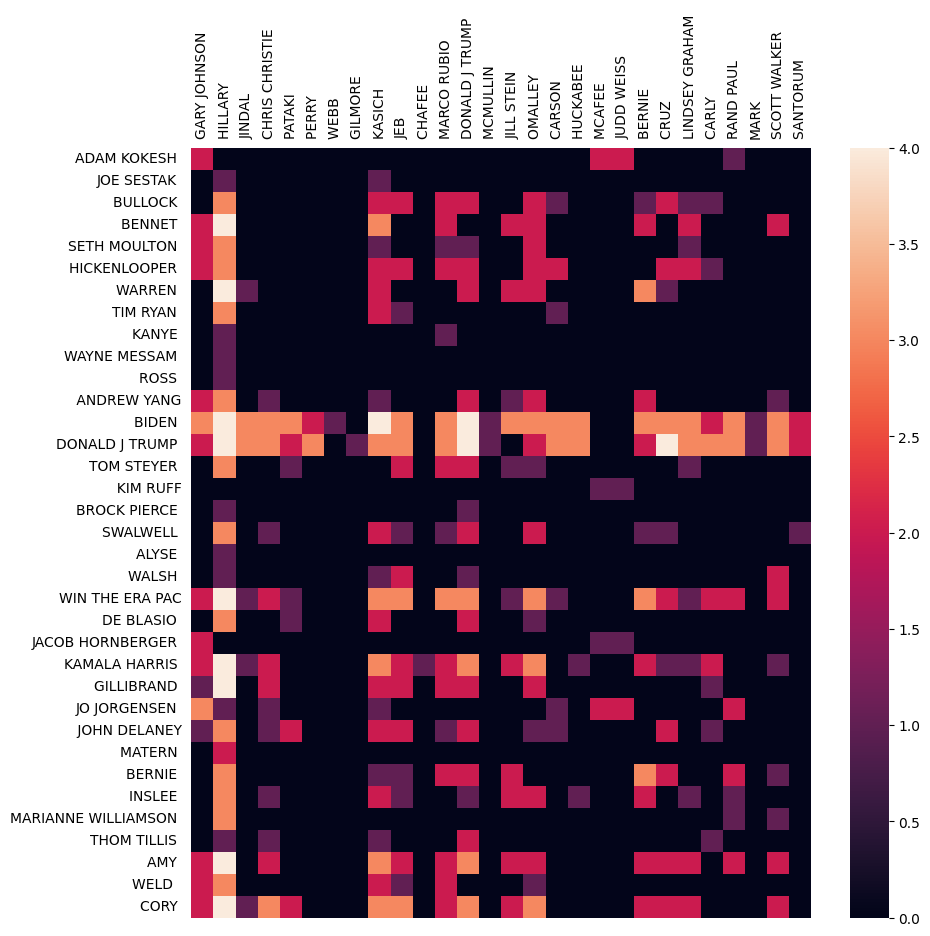
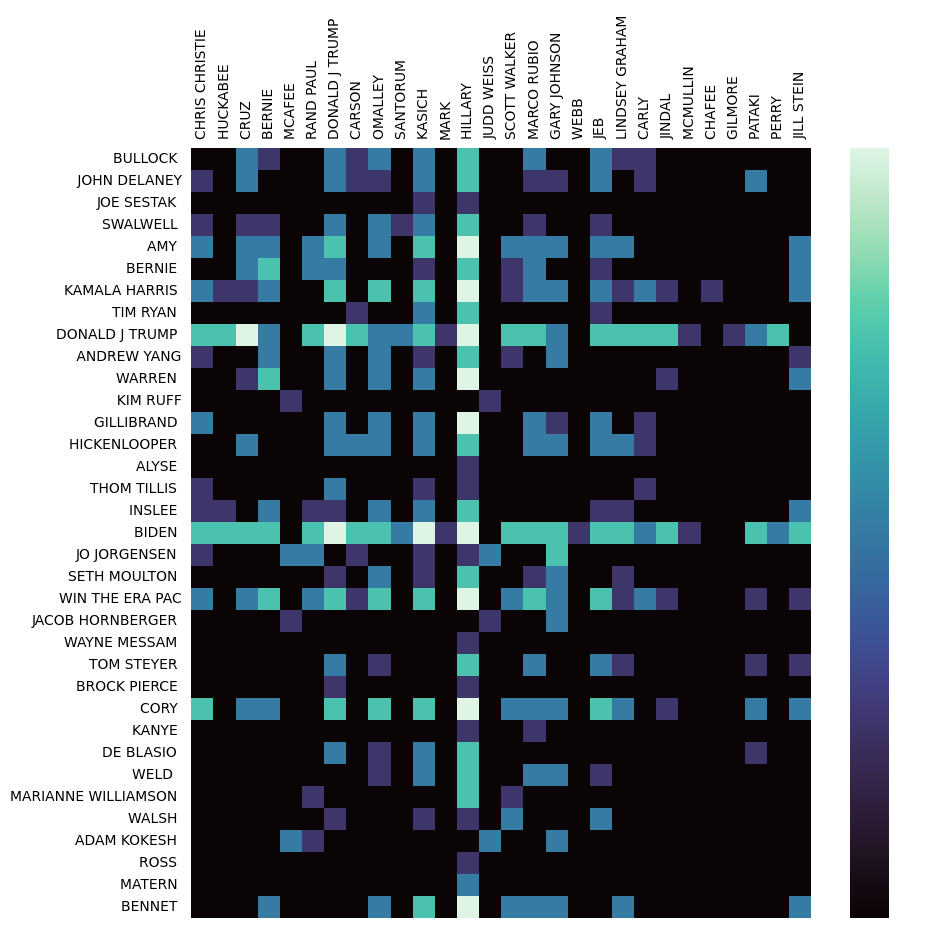
update writeup

diff --git a/index.html b/index.html
@@ -7,7 +7,7 @@
 <head>
 	<meta http-equiv="Content-Type" content="text/html; charset=utf-8"/>
 
-	<title>snek.html</title>
+	<title>Data for Data</title>
 	
 	<style type="text/css" media="screen">
 	
@@ -20,8 +20,8 @@
 		
 		
 		pre code {
-			background-color: #008000;
-			color: #000;
+			background-color: #00bfb2;
+			color: #000000;
 			
 			display: block;
 			padding: 20px;
@@ -38,7 +38,7 @@
 	
 </head>
 
-<body bgcolor="black" text="green">
+<body bgcolor="000000" text="00bfb2">
 
 <style>
  body {
@@ -50,34 +50,119 @@
     h2 {
         counter-reset: h3counter;
     }
-    h1:before {
-        content: counter(h1counter) ".\0000a0\0000a0";
-        counter-increment: h1counter;
-    }
     h2:before {
-        content: counter(h1counter) "." counter(h2counter) ".\0000a0\0000a0";
+        content: counter(h2counter) ".\0000a0\0000a0";
         counter-increment: h2counter;
     }
     h3:before {
-        content: counter(h1counter) "." counter(h2counter) "." counter(h3counter) ".\0000a0\0000a0";
+        content: counter(h2counter) "." counter(h3counter) ".\0000a0\0000a0";
         counter-increment: h3counter;
     }
 </style>
 	
-<h1 id="preamble">Data Structures for Data Analysis</h1>
+<h1 id="preamble">Data Structures for Data Analysis by Calvin</h1>
 
 <p>I wanted to analyze data on election donations in the 2016 and 2020 presidential cycles to find how donors shifted between candidates in those two cycles. To do so, I looked at all cases in which there was a maximum individual donation under the same name in 2016 and 2020 and then plotting them in a heatmap.</p>
 
-<h1 id="preamble">The Data</h1>
+<center>
+  <pre><code><img src="heat.png" height=640px></pre></code>
+</center>
+
+<h2 >The Data</h2>
 
 I drew from FEC individual contributions. You can look at the data for yourself:
 
 <ul>
-  <li><a href="https://www.fec.gov/data/receipts/individual-contributions/?two_year_transaction_period=2016&recipient_committee_type=P&min_amount=2700&max_amount=2">2016 cycle</a></li>
+  <li><a href="https://www.fec.gov/data/receipts/individual-contributions/?two_year_transaction_period=2016&recipient_committee_type=P&min_amount=2700&max_amount=2700">2016 cycle</a></li>
   <li><a href="https://www.fec.gov/data/receipts/individual-contributions/?two_year_transaction_period=2020&recipient_committee_type=P&min_amount=2800&max_amount=2800">2020 cycle</a></li>
 </ul>
 
-This should be static, but was retrieved on 19 April 2022. The originals are retained under version control.
+This should be static, but was retrieved on 19 April 2022. The originals are retained under version control. As the files are too large to be stored on Github, they are uploaded in parts with the split/combine script also provided. You can also run on partial data, which generally appeared to be representative.
+
+I found the csv lines to be extremely low in information density, and over time refined a line reader that I would use when reading lines into an internal data structure.
+
+<pre><code># get key, value from line
+def get_kv(l):
+	# we need the 13th column but quotes mix it up
+	key, val, commas, quotes = "", "", 0, False
+	for c in l:
+		if c == '\"':
+			quotes = not quotes
+		elif c == ',' and not quotes:
+			commas += 1
+		elif commas == 13:
+			key += c
+		elif commas == 1 and (c.isupper() or c.isspace()):
+			val += c
+		elif commas == 14:
+			# shorten val
+			for f in ["FOR","PRES","AMER"]:
+				if f in val:
+					val = val[:val.find("FOR")]
+			for r in ["FRIENDS OF","COMMITTEE","TO ELECT","INC","CAMPAIGN"]:
+				val = val.replace(r,"")
+			val.strip()
+			return key, val</code></pre>
+			
+I did learn something here, which is that it would probably help transparency a lot if the names of donees had to match the names of the candidates on behalf of whom they collect donations.
+
+<h2 >The Structure</h2>
+
+<p>The data set was approximately 100 megabytes in size encoded as a .csv files. I read the files line by line in a binary search tree that stored the donor name as a key value and then stored as values the donee in two sets, one for 2016 and one for 2020. I used get_kv as my function to read lines.</p>
+
+<p>This is where you would use the library of the week if you wanted to use a library.</p>
+
+<pre><code># a bst is a list - less, more, key, vals
+# key is a donor
+# vals is a year indexed list of sets of donees
+
+# file line to bst entry
+def insert(data, tree, func, year):
+	# use func to read a line of data from file
+	key, val = func(data)
+	# traverse
+	while tree and key != tree[2]:
+		tree = tree[key > tree[2]]
+	if tree:
+	# add value to key
+		tree[3][year].add(val)
+	elif not year:
+	# add key to tree
+		tree.extend([[],[], key, [{val},set()]])</code></pre>
+		
+<p>I stored the subtrees first to allow for boolean indexing and separated donees by year to track cycle-to-cycle changes. I had not original planned to track multiple donees per year, but when working over the data found it to be quite common for a donor to donate to multiple donees per cycle and wanted to capture this phenomenon.</p>
+
+<p>I did need to be able to flatten the tree back into a list, so I used a simple recursive utility to do so.</p>
+
+<pre><code>def tolist(tree):
+	if tree:
+		# we have a two sets and want to add all pairs between sets
+		l = [(one, two) for one in tree[3][0] for two in tree[3][1]]
+		return tolist(tree[0]) + l + tolist(tree[1])
+	return []</pre></code>
+
+<p>Here I swapped from lists to tuples for internal data as I would be adding these all to dictionaries shortly which would latter be converted to dataframes for the heatmap. Since lists cannot be hashed and therefore cannot be added to dictionaries, but these internal data will no longer be altered, this was the first use of an appropriate Python type other than a list to store data.</p>
+
+<h2 >The Dictionary</h2>
+
+I needed to move my tree into a data frame, and to do so thought it best to translate through a dictionary in two dimensions indexed by donees capturing donor frequency for the donee pair. To see how many Trump->Biden donors for example I would then check <code>d["TRUMP"]["BIDEN"]</code>. Once I had the dictionary in hand, I would shift over to using data visualization libraries. So in all, this code goes csv->bst->list->dictionary. I found I also had to take the log of the log of the frequencies using <code>bit_length</code> because of strong herding effects around winning nominees making movement between primary candidates almost immeasurably small, especially at the point of visualization.
+
+<pre><code># csv -> bst
+csvs = ["2016_2700s.csv","2020_2800s.csv"]
+tree = []
+[insert(line, tree, get_kv, n) for n in [0,1] for line in open(csvs[n],"r")]
+
+# bst -> list
+dnrs = [donr for donr in tolist(tree) if all(donr)] # ensure donations both cycles
+
+# list -> dict
+sxtn, twnt = set([donr[0] for donr in dnrs]), set([donr[1] for donr in dnrs])
+d = { s : { t : 0 for t in twnt } for s in sxtn } # init to zero
+for donr in dnrs:
+d[donr[0]][donr[1]] += 1 # compute frequencies 
+
+# frequency -> log of log of frequency
+d = { s : { t : d[s][t].bit_length().bit_length() for t in twnt } for s in sxtn }</pre></code>
 
 </body>
 </html>

diff --git a/heat.py b/heat.py
@@ -3,10 +3,6 @@
 # bst, but good
 # classes are cancelled
 
-# a bst is a list - less, more, key, vals
-# key is a name
-# vals is a year indexed list of sets
-
 def insert(data, tree, func, year):
 	key, val = func(data)
 	if not val:
@@ -24,7 +20,8 @@ def insert(data, tree, func, year):
 def tolist(tree):
 	if tree:
 		# we have a two sets and want to add all pairs between sets
-		return tolist(tree[0]) + [(one, two) for one in tree[3][0] for two in tree[3][1]] + tolist(tree[1])
+		l = [(one, two) for one in tree[3][0] for two in tree[3][1]]
+		return tolist(tree[0]) + l + tolist(tree[1])
 	return []
 
 # file handling
@@ -32,10 +29,7 @@ def tolist(tree):
 # line to key
 def get_kv(l):
 	# we need the 13th column but quotes mix it up
-	key = ""
-	val = ""
-	commas = 0
-	quotes = False
+	key, val, commas, quotes = "", "", 0, False
 	for c in l:
 		if c == '\"':
 			quotes = not quotes
@@ -47,34 +41,33 @@ def get_kv(l):
 			val += c
 		elif commas == 14:
 			# shorten val
-			if "FOR" in val:
-				val = val[:val.find("FOR")]
-			if "PRES" in val:
-				val = val[:val.find("PRES")]
-			if "AMER" in val:
-				val = val[:val.find("AMER")]
-			val = val.replace("FRIENDS OF","")
-			val = val.replace("COMMITTEE","")
-			val = val.replace("TO ELECT","")
-			val = val.replace("INC","")
-			val = val.replace("CAMPAIGN","")
+			for f in ["FOR", "PRES", "AMER"]:
+				if f in val:
+					val = val[:val.find(f)]
+			for r in ["FRIENDS OF", "COMMITTEE", "TO ELECT", "INC", "CAMPAIGN"]:
+				val = val.replace(r,"")
 			val.strip()
 			return key, val
 
 # make the dictionary
 def getd():
-	# compare two cycles
+	# csv -> bst
 	csvs = ["2016_2700s.csv","2020_2800s.csv"]
-	# with two bsts, we check for shared entries
 	tree = []
 	[insert(line, tree, get_kv, n) for n in [0,1] for line in open(csvs[n],"r")]
-	twos = [donr for donr in tolist(tree) if all(donr)]
-	d = { one : { two : 0 for two in set([donr[1] for donr in twos]) } for one in set([donr[0] for donr in twos]) }
-	for donr in twos:
-		d[donr[0]][donr[1]] += 1
-	for one in d:
-		for two in d[one]:
-			d[one][two] = d[one][two].bit_length().bit_length()
+	
+	# bst -> list
+	dnrs = [donr for donr in tolist(tree) if all(donr)] # ensure donations both cycles
+	
+	# list -> dict
+	sxtn, twnt = set([donr[0] for donr in dnrs]), set([donr[1] for donr in dnrs])
+	d = { s : { t : 0 for t in twnt } for s in sxtn } # init to zero
+	for donr in dnrs:
+		d[donr[0]][donr[1]] += 1 # compute frequencies 
+		
+	# frequency -> log of log of frequency
+	d = { s : { t : d[s][t].bit_length().bit_length() for t in twnt } for s in sxtn }
+			
 	return d
 
 # we need a few imports to make the map
@@ -87,13 +80,16 @@ def heat():
 
 	df = pandas.DataFrame.from_dict(getd())
 	
-	blues = seaborn.color_palette("light:b", as_cmap=True)
+	mako = seaborn.color_palette("mako", as_cmap=True)
 	plt.rcParams['figure.figsize'] = [10, 10]
 	plt.rcParams['figure.dpi'] = 100
 	plt.tick_params(axis='both', which='major', labelsize=10, labelbottom = False, bottom=False, top = False, left = False, labeltop=True)
+	plt.style.use("dark_background")
 	
-	p = seaborn.heatmap(df)
+	p = seaborn.heatmap(df, cmap=mako)
+	p.xaxis.label.set_color('purple')
+	p.yaxis.label.set_color('silver')
 	f = p.get_figure()
-	f.savefig("heat.png",bbox_inches='tight')
+	f.savefig("heat.png",bbox_inches='tight',transparent=True)
 	
 heat()
